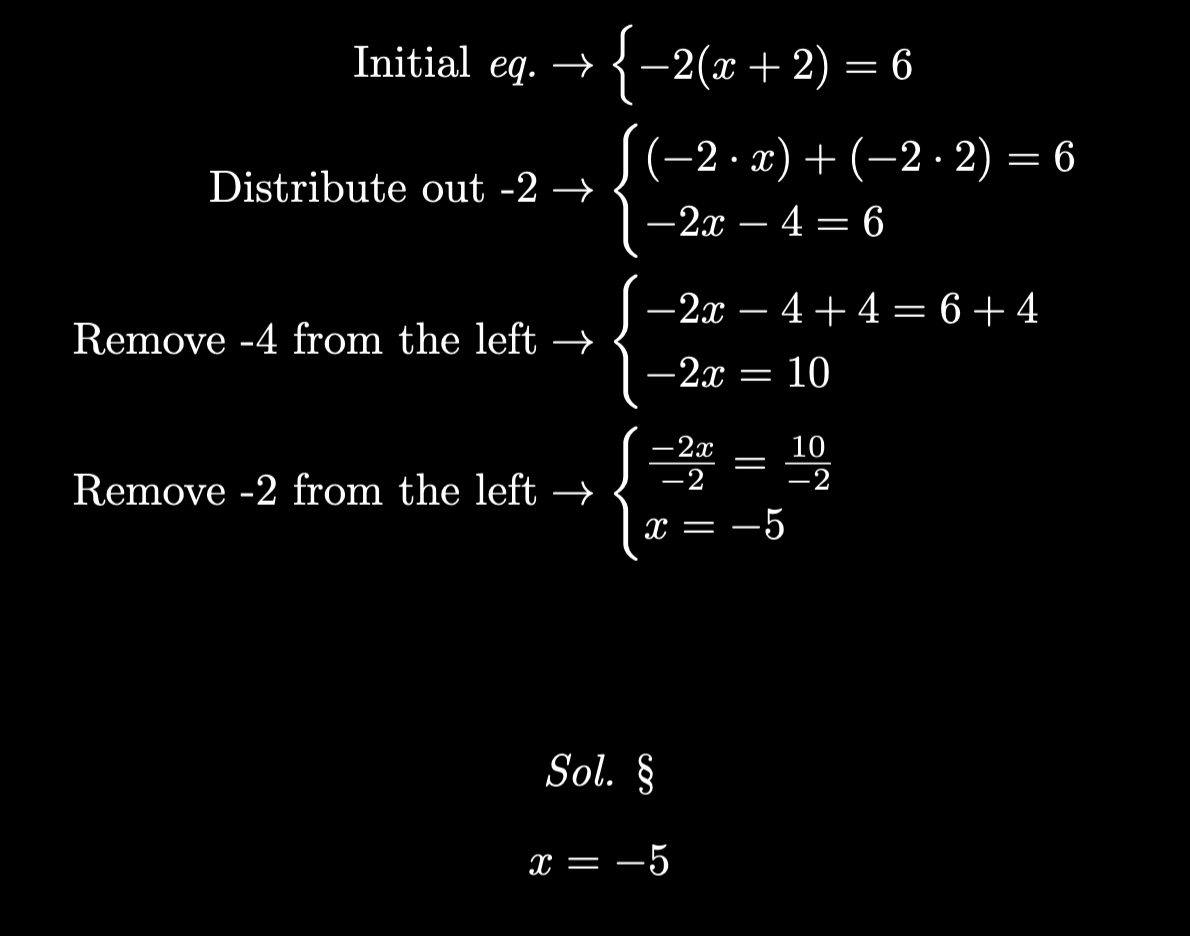
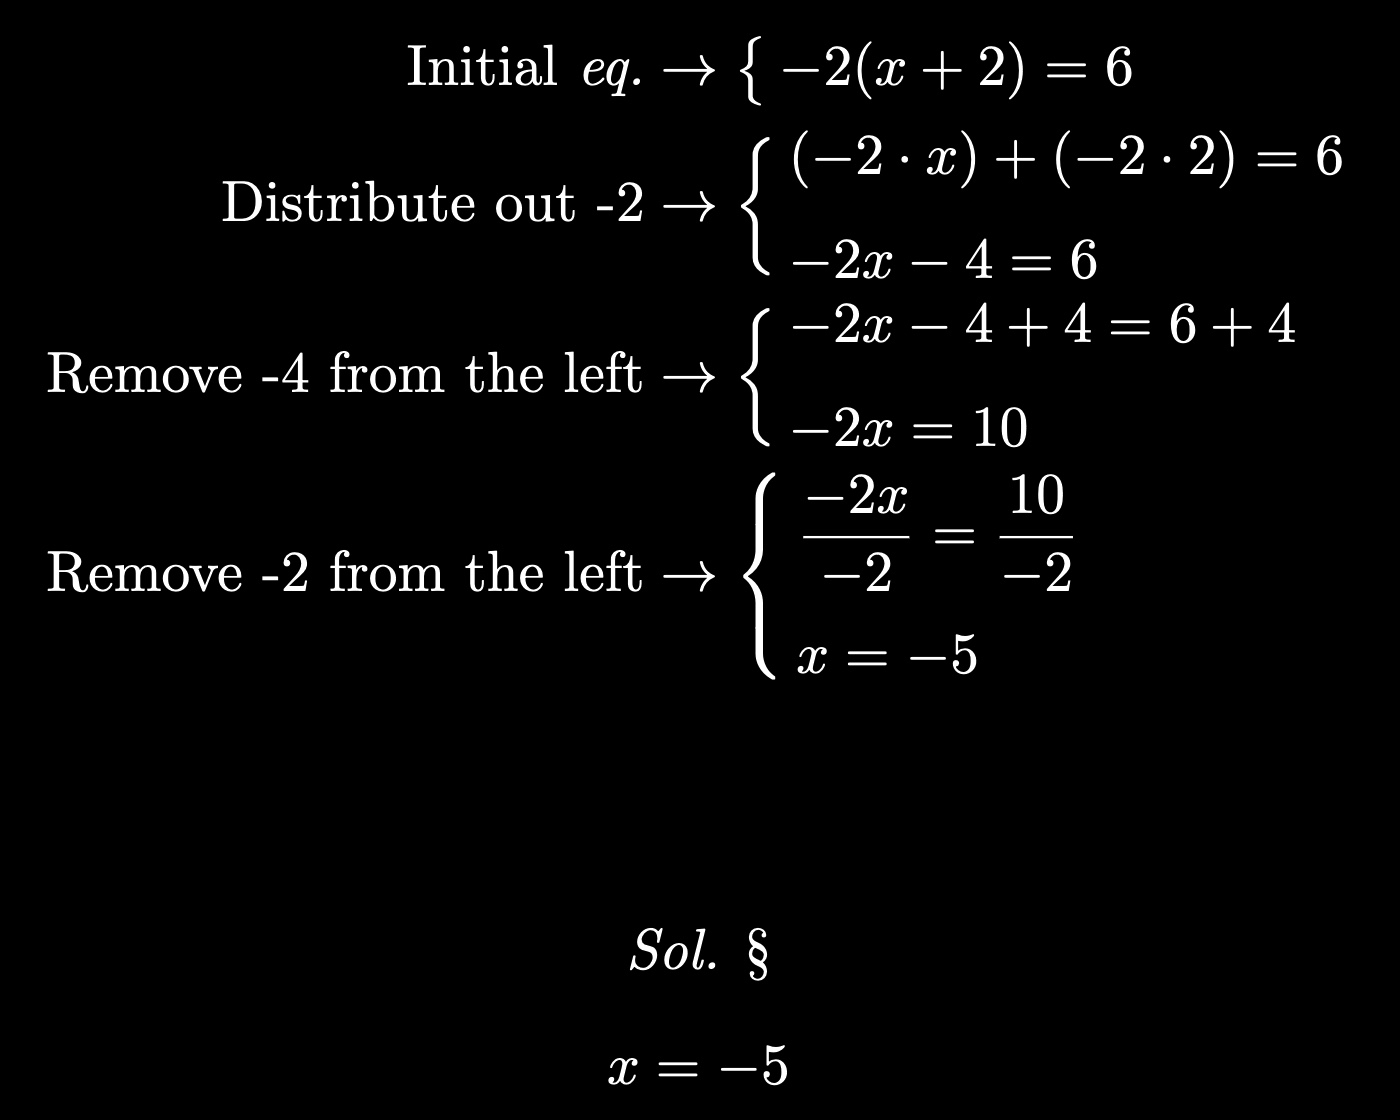
✨ Make displaystyle finally work in cases

diff --git a/example.tex b/example.tex
@@ -7,6 +7,7 @@
 \makeindex
 
 \usepackage{explain-math}
+\usepackage[cases]{cases} % Used for displaystyle in the braces
 
 \begin{document}
     \maketitle

diff --git a/README.md b/README.md
@@ -35,6 +35,7 @@ Once you have that you can just call the package:
 
 ```latex
 \usepackage{explain-math}
+\usepackage[cases]{cases} % Used for displaystyle in the braces
 ```
 
 ## ✨ Commands
